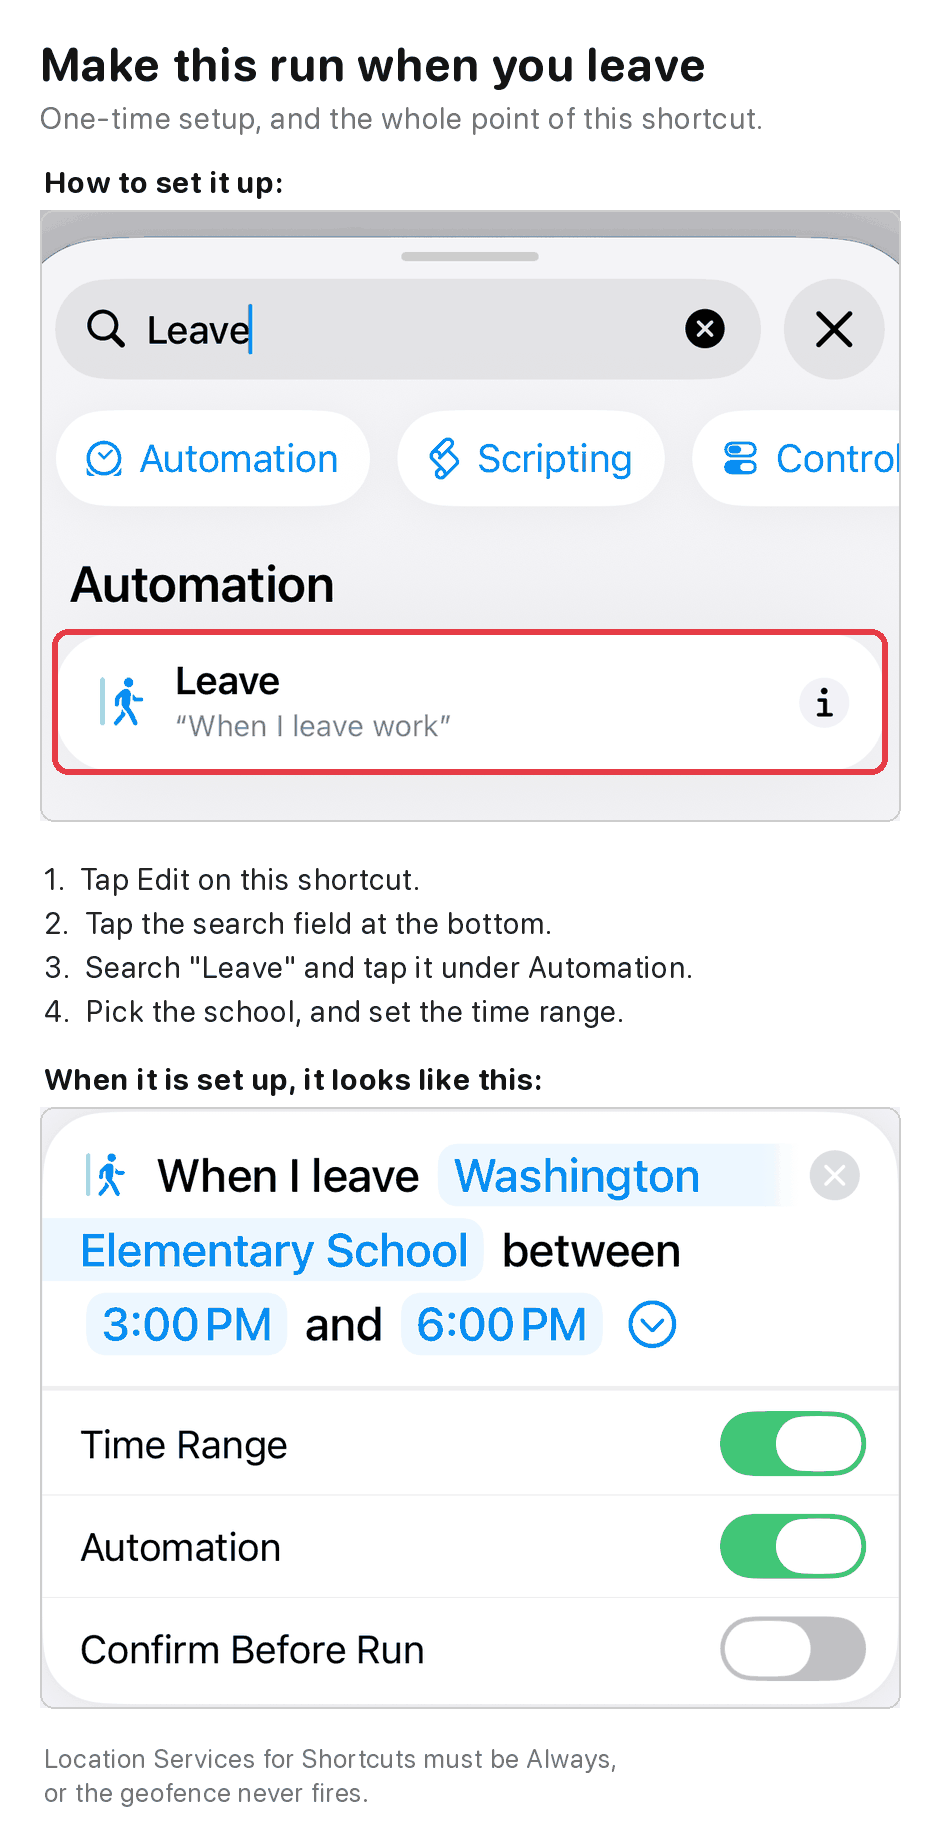
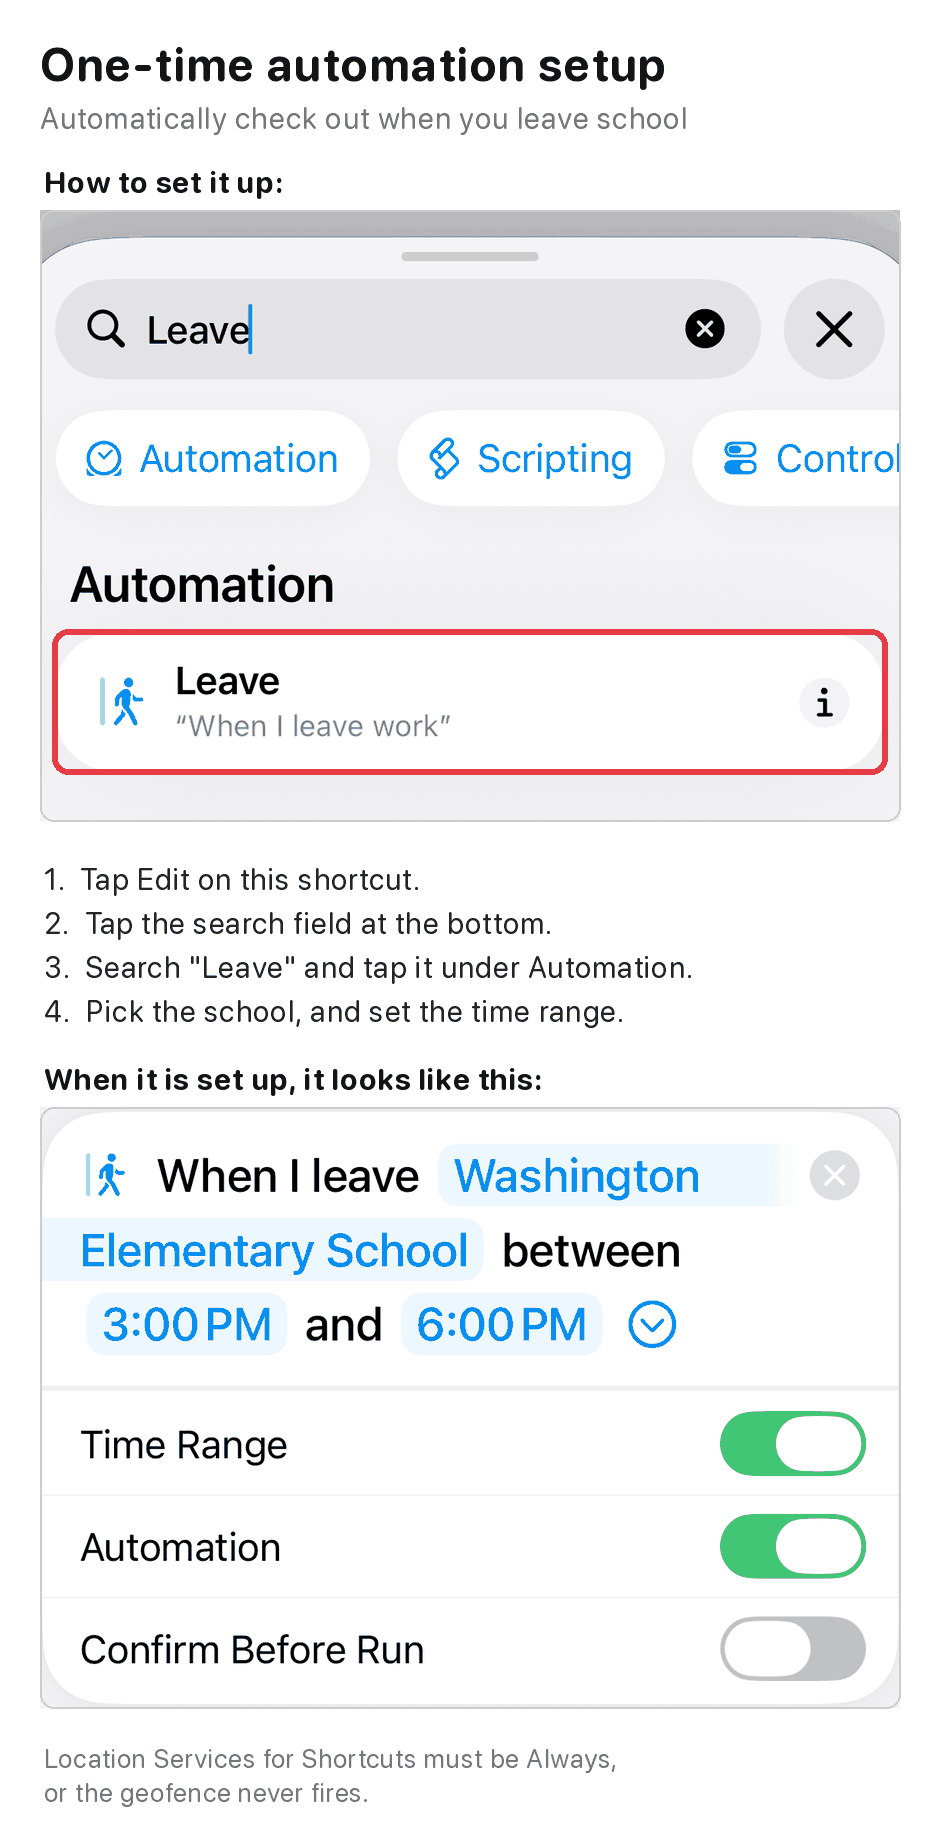
💄 style(diagrams): title the setup guides by task, subtitle them by result
`One-time automation setup` over `Automatically check in when you arrive at school`. The title now names the task and is shared by both wrappers; only the subtitle changes direction.

Claude-Session: https://claude.ai/code/session_017sMzJReUoznQFBgM6gf6BX

Changed region(s): [[0.0309, 0.031, 0.8021, 0.093]]

diff --git a/make_diagrams.py b/make_diagrams.py
@@ -36,17 +36,19 @@ ASSETS = HERE / "assets"
 # Outset by 4px so the stroke sits outside the card instead of over its edge.
 ROW = (56, 699, 1149, 889)
 
+TITLE = "One-time automation setup"
+
 PLAN = {
     "check-in": {
         "capture": "capture-arrive.png",
         "result": "capture-arrive-set.png",
-        "title": "Make this run when you arrive",
+        "subtitle": "Automatically check in when you arrive at school",
         "action": "Arrive",
     },
     "check-out": {
         "capture": "capture-leave.png",
         "result": "capture-leave-set.png",
-        "title": "Make this run when you leave",
+        "subtitle": "Automatically check out when you leave school",
         "action": "Leave",
     },
 }
@@ -107,13 +109,10 @@ def draw(kind, spec):
 
     canvas = Image.new("RGB", (940, height), (255, 255, 255))
     d = ImageDraw.Draw(canvas)
-    d.text((40, 36), spec["title"], font=font(46, True), fill=(20, 20, 20))
-    # "Make this run ..." rather than "Run this ...", which parsed as an order
-    # to run the shortcut right now — the opposite of the point. The subtitle
-    # says the setup is expected: a wrapper with no trigger does nothing you
-    # could not do by running Brightwheel Attendance by hand.
-    d.text((40, 100), "One-time setup, and the whole point of this shortcut.",
-           font=font(30), fill=(110, 110, 110))
+    # The title names the task; the subtitle names the result. Both wrappers
+    # share the title, and only the subtitle changes direction.
+    d.text((40, 36), TITLE, font=font(46, True), fill=(20, 20, 20))
+    d.text((40, 100), spec["subtitle"], font=font(30), fill=(110, 110, 110))
 
     d.text((44, head_y), "How to set it up:", font=font(30, True),
            fill=(20, 20, 20))
